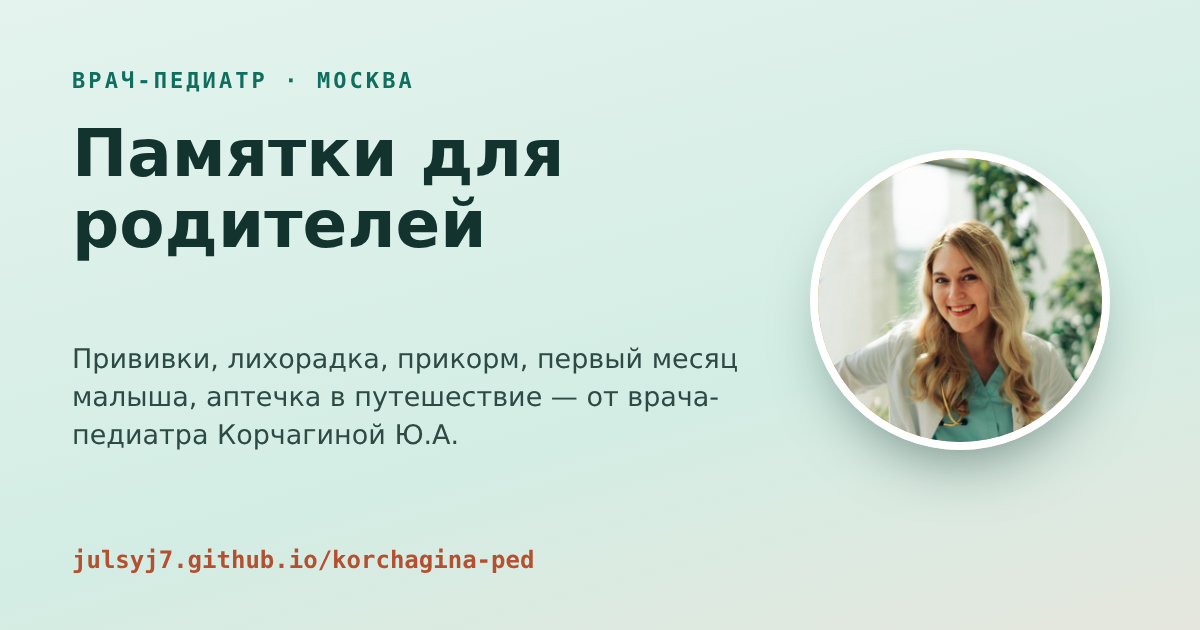
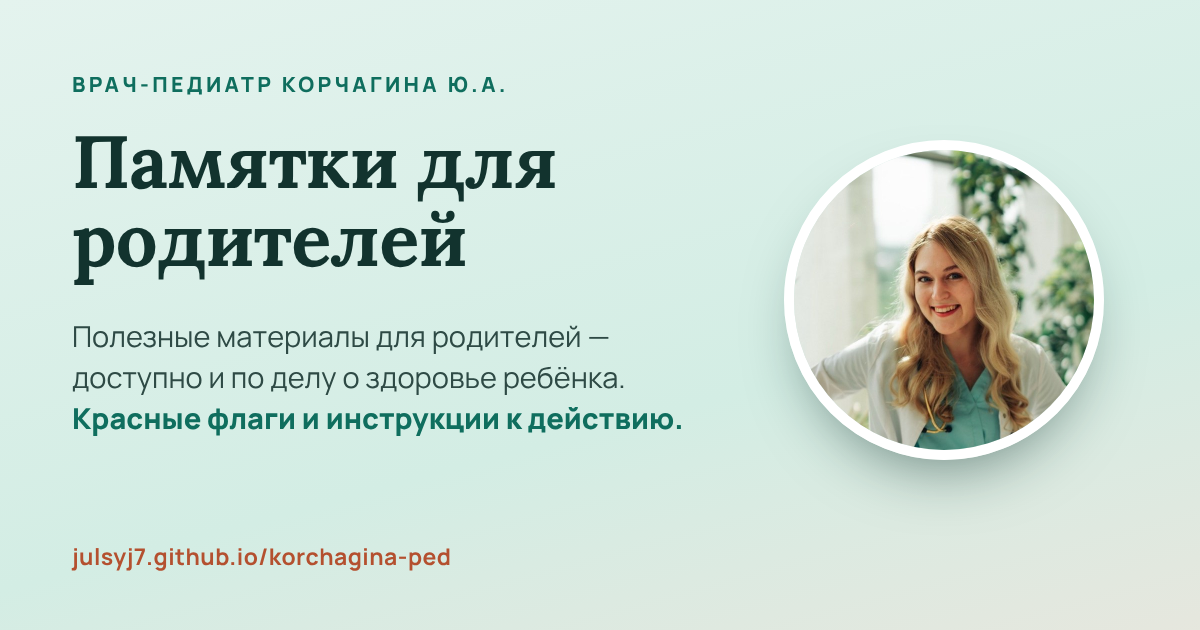
Рвота и диарея: пояснение к «на голоде или только водой»; главная: свои имена иконок, новое превью и описание
Иконки главной переименованы (icon-home-*.png, apple-touch-icon-home.png, favicon-home-32.png):
по старым адресам раньше лежала «Аптечка», и ярлыки на телефонах не обновлялись.

Claude-Session: https://claude.ai/code/session_017s2bNXoTBjhX1x4obih4tk

diff --git a/index.html b/index.html
@@ -4,21 +4,21 @@
 <meta charset="utf-8">
 <meta name="viewport" content="width=device-width, initial-scale=1, viewport-fit=cover">
 <title>Памятки врача-педиатра Корчагиной Ю.А.</title>
-<meta name="description" content="Памятки для родителей от врача-педиатра Корчагиной Юлии Алексеевны: прививки, лихорадка, прикорм, первый месяц малыша, аптечка в путешествие. Доказательная медицина, работают без интернета.">
+<meta name="description" content="Полезные материалы для родителей — доступно и по делу о здоровье ребёнка. Красные флаги и инструкции к действию.">
 <link rel="manifest" href="manifest.webmanifest">
 <meta property="og:type" content="website">
 <meta property="og:site_name" content="Памятки врача-педиатра Корчагиной Ю.А.">
 <meta property="og:locale" content="ru_RU">
 <meta property="og:url" content="https://julsyj7.github.io/korchagina-ped/">
 <meta property="og:title" content="Памятки врача-педиатра Корчагиной Ю.А.">
-<meta property="og:description" content="Памятки для родителей от врача-педиатра Корчагиной Юлии Алексеевны: прививки, лихорадка, прикорм, первый месяц малыша, аптечка в путешествие. Доказательная медицина, работают без интернета.">
+<meta property="og:description" content="Полезные материалы для родителей — доступно и по делу о здоровье ребёнка. Красные флаги и инструкции к действию.">
 <meta property="og:image" content="https://julsyj7.github.io/korchagina-ped/og-image.png">
 <meta property="og:image:width" content="1200">
 <meta property="og:image:height" content="630">
 <meta name="twitter:card" content="summary_large_image">
-<link rel="icon" type="image/png" sizes="32x32" href="favicon-32.png">
-<link rel="icon" type="image/png" sizes="192x192" href="icon-192.png">
-<link rel="apple-touch-icon" href="apple-touch-icon.png">
+<link rel="icon" type="image/png" sizes="32x32" href="favicon-home-32.png">
+<link rel="icon" type="image/png" sizes="192x192" href="icon-home-192.png">
+<link rel="apple-touch-icon" href="apple-touch-icon-home.png">
 <meta name="theme-color" content="#E4F3EE" media="(prefers-color-scheme: light)">
 <meta name="theme-color" content="#103B35" media="(prefers-color-scheme: dark)">
 <meta name="apple-mobile-web-app-capable" content="yes">
@@ -185,7 +185,7 @@ footer .wrap{border-top:1px solid var(--line);padding-top:18px}
       </a>
       <a class="memo" href="rvota/" style="--c:#1E6FA8">
         <img src="thumb-rvota.webp" alt="" loading="lazy" width="720" height="378">
-        <div class="memo-t"><h3>Рвота и диарея</h3><span class="memo-s">как отпаивать и когда к врачу</span><p>Сколько раствора давать по весу, признаки обезвоживания, дневник стула и рвоты, когда вызывать скорую.</p><span class="memo-u">Обновлено 25.11.2026</span><span class="memo-go">Открыть памятку <svg viewBox="0 0 24 24" aria-hidden="true"><path d="M5 12h14M13 6l6 6-6 6"/></svg></span></div>
+        <div class="memo-t"><h3>Рвота и диарея</h3><span class="memo-s">как отпаивать и когда к врачу</span><p>Сколько раствора давать по весу, признаки обезвоживания, дневник стула и рвоты, когда вызывать скорую.</p><span class="memo-u">Обновлено 26.11.2026</span><span class="memo-go">Открыть памятку <svg viewBox="0 0 24 24" aria-hidden="true"><path d="M5 12h14M13 6l6 6-6 6"/></svg></span></div>
       </a>
       <a class="memo" href="aptechka/" style="--c:#0D5C6B">
         <img src="thumb-aptechka.webp" alt="" loading="lazy" width="720" height="378">

diff --git a/sw.js b/sw.js
@@ -1,6 +1,6 @@
 /* Офлайн-кэш главной страницы. Версия меняется при каждом обновлении index.html. */
-const VERSION = "home-6bc3371c33";
-const CORE = ["./", "./index.html", "./manifest.webmanifest", "./icon-192.png", "./icon-512.png", "./apple-touch-icon.png", "./favicon-32.png", "./photo.jpg", "./pattern-light.webp", "./pattern-dark.webp", "./thumb-malysh.webp", "./thumb-prikorm.webp", "./thumb-privivki.webp", "./thumb-lihoradka.webp", "./thumb-rvota.webp", "./thumb-aptechka.webp", "./font-lora-cyrillic-700.woff2", "./font-lora-latin-700.woff2", "./font-manrope-cyrillic-400.woff2", "./font-manrope-cyrillic-700.woff2", "./font-manrope-cyrillic-800.woff2", "./font-manrope-latin-400.woff2", "./font-manrope-latin-700.woff2", "./font-manrope-latin-800.woff2"];
+const VERSION = "home-02a17ad325";
+const CORE = ["./", "./index.html", "./manifest.webmanifest", "./icon-home-192.png", "./icon-home-512.png", "./apple-touch-icon-home.png", "./favicon-home-32.png", "./photo.jpg", "./pattern-light.webp", "./pattern-dark.webp", "./thumb-malysh.webp", "./thumb-prikorm.webp", "./thumb-privivki.webp", "./thumb-lihoradka.webp", "./thumb-rvota.webp", "./thumb-aptechka.webp", "./font-lora-cyrillic-700.woff2", "./font-lora-latin-700.woff2", "./font-manrope-cyrillic-400.woff2", "./font-manrope-cyrillic-700.woff2", "./font-manrope-cyrillic-800.woff2", "./font-manrope-latin-400.woff2", "./font-manrope-latin-700.woff2", "./font-manrope-latin-800.woff2"];
 self.addEventListener("install", (e) => {
   e.waitUntil(caches.open(VERSION).then((c) => c.addAll(CORE)).then(() => self.skipWaiting()));
 });

diff --git a/rvota/index.html b/rvota/index.html
@@ -431,7 +431,7 @@ footer{padding-bottom:90px}
           <li>Давать лекарства «от поноса» и «от рвоты» без врача<small>Средства, которые замедляют работу кишечника, детям при кишечной инфекции не показаны.</small></li>
           <li>Давать антибиотики без назначения врача<small>Вирусную инфекцию они не лечат.</small></li>
           <li>Заменять раствор соком, газировкой, сладким чаем или бульоном<small>Соки и газировка могут усилить понос. Вернуть их можно, когда понос прекратится.</small></li>
-          <li>Держать ребёнка на голоде или поить только водой</li>
+          <li>Держать ребёнка на голоде или поить только водой<small>Голодные паузы не нужны. В воде нет солей, которые ребёнок теряет с рвотой и стулом.</small></li>
           <li>Самим переводить на лечебную смесь<small>Безлактозную или другую лечебную смесь подбирает врач.</small></li>
         </ul></details>
       </div>

diff --git a/rvota/sw.js b/rvota/sw.js
@@ -1,5 +1,5 @@
 /* Офлайн-кэш памятки. Версия меняется автоматически при каждом обновлении index.html. */
-const VERSION = "rvota-a42888bd6d";
+const VERSION = "rvota-3ca78c24c3";
 const CORE = ["./", "./index.html", "./manifest.webmanifest", "./icon-192.png", "./icon-512.png", "./apple-touch-icon.png", "./favicon-32.png"];
 
 self.addEventListener("install", (e) => {
